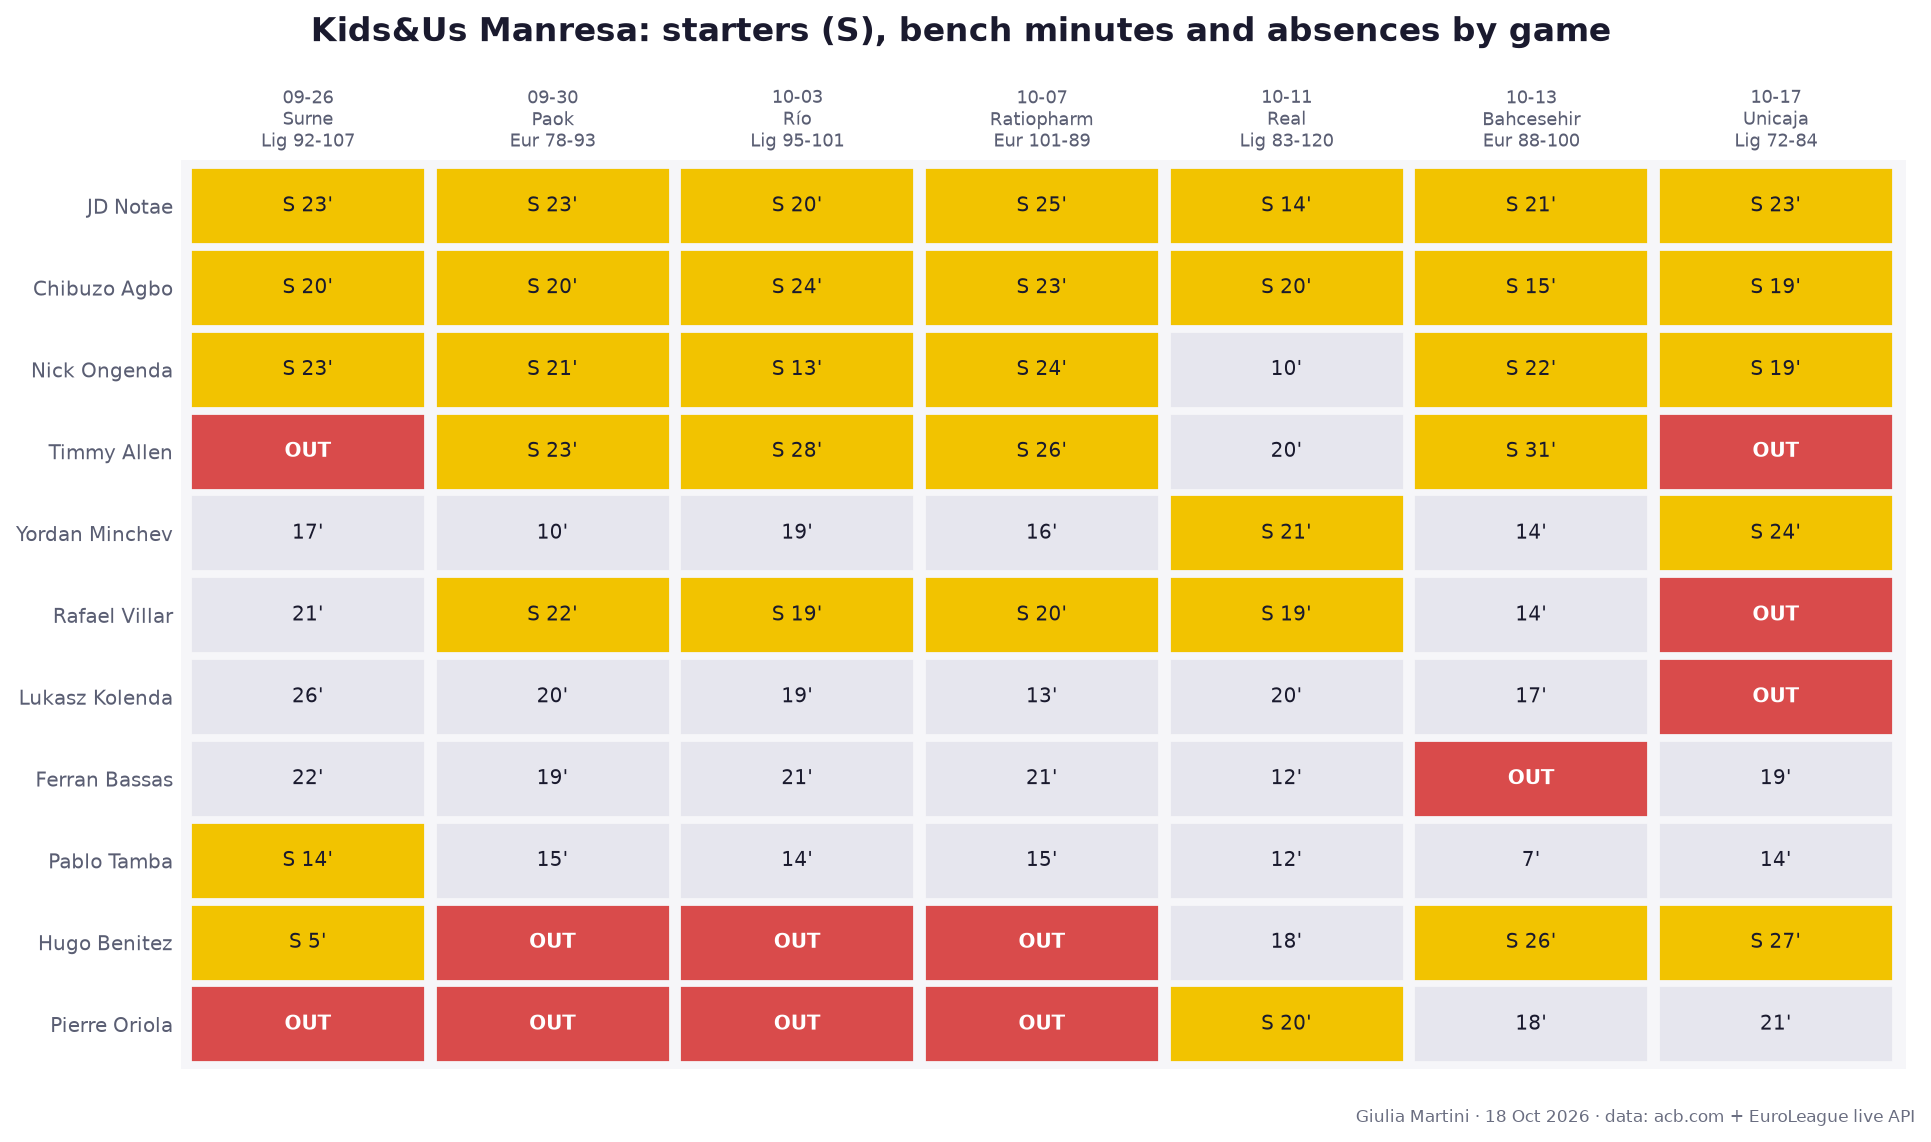
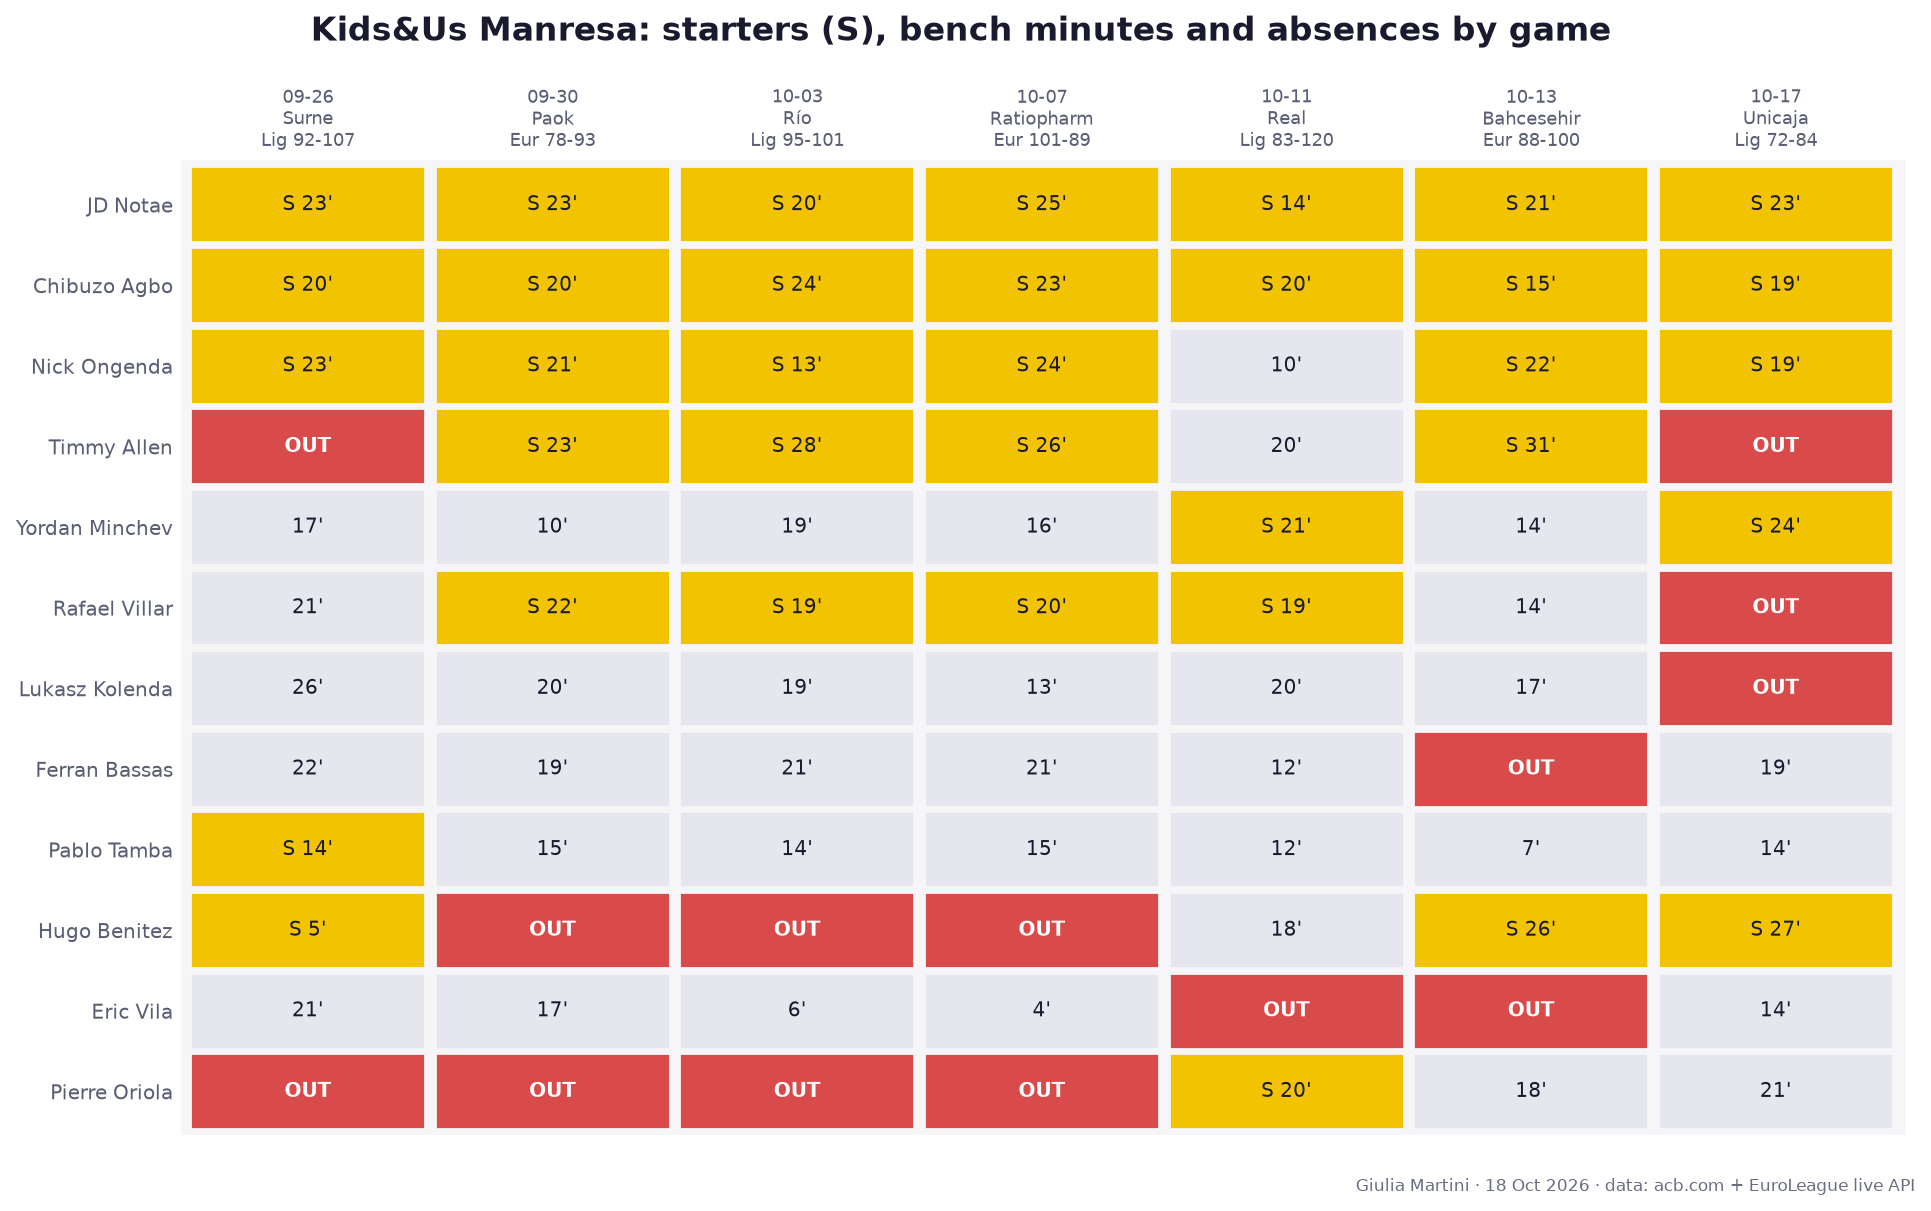
Manresa report: extend rotation table to top 12 by minutes (adds Vila and Oriola)

diff --git a/notebooks/manresa_report.py b/notebooks/manresa_report.py
@@ -24,7 +24,7 @@ from manresa_fetch import player_key
 
 ROOT = Path(__file__).resolve().parent.parent
 DATA = ROOT / "data" / "manresa"
-TOP_N = 10
+TOP_N = 12
 MIN_UNIT_SECS = 180
 ROLE_EN = {"Base": "PG", "Escolta": "SG", "Alero": "SF", "Ala-pívot": "PF", "Pívot": "C"}
 POS_EN = {"Guard": "G", "Forward": "F", "Center": "C"}
@@ -135,8 +135,8 @@ def fig_players(table: pd.DataFrame, out: Path) -> Path:
             cell._loc = "left"
             cell.set_text_props(ha="left")
     tab.auto_set_column_width(range(len(cols)))
-    fig.suptitle("Kids&Us Manresa: top 10 by minutes, Liga Endesa + EuroCup 2026/27", **SUP_KW)
-    path = out / "01_top10_players.png"
+    fig.suptitle(f"Kids&Us Manresa: top {TOP_N} by minutes, Liga Endesa + EuroCup 2026/27", **SUP_KW)
+    path = out / "01_top_players.png"
     save_fig(fig, path)
     plt.close(fig)
     return path
@@ -442,7 +442,7 @@ def extra_sections(starters: pd.DataFrame, assists: pd.DataFrame, matrix: pd.Dat
                    per_game: pd.DataFrame, ts: pd.DataFrame) -> list[str]:
     """README lines for starting fives, assist matrix, shot distances and shot charts."""
     L = ["## Starting fives and absences", "", "![starting fives](00_starting_fives.png)", "",
-         "Gold = starter (S, minutes), grey = bench minutes, red = rotation player (top 10 by minutes) "
+         "Gold = starter (S, minutes), grey = bench minutes, red = rotation player (top 12 by minutes) "
          "not on the game sheet (injury, rest or selection: the reason is not in the data).", "",
          "| Date | Comp | Opponent | H/A | Score | Starters | Out |", "|---|---|---|---|---|---|---|"]
     L += [f"| {r.date} | {r.comp} | {r.opponent} | {r.home} | {r.score} | {r.starters} | "
@@ -467,7 +467,7 @@ def extra_sections(starters: pd.DataFrame, assists: pd.DataFrame, matrix: pd.Dat
                  for n in dist.columns.get_level_values(0).unique()]
         L.append(f"| {label} | " + " | ".join(cells) + " |")
     L += ["", "### Attempts per game (FG%) by player", "", "![per game](05_shots_per_game.png)", "",
-          "Top 10 by minutes; attempts per EuroCup game played, FG% in brackets.", "",
+          "Top 12 by minutes; attempts per EuroCup game played, FG% in brackets.", "",
           "| Player | " + " | ".join(per_game.columns) + " |", "|---|" + "---|" * len(per_game.columns)]
     L += [f"| {name} | " + " | ".join(str(v) for v in row) + " |" for name, row in per_game.iterrows()]
     L += ["", "## True Shooting and PIR", "", "![ts pir](06_ts_pir.png)", "",
@@ -496,7 +496,7 @@ def write_readme(out: Path, title_date: str, games: pd.DataFrame, table: pd.Data
     L += ["", "## Results", "", "| Comp | Opponent | H/A | Score |", "|---|---|---|---|"]
     for r in games.itertuples():
         L.append(f"| {r.comp} | {r.opponent} | {'H' if r.home else 'A'} | {r.man_pts}-{r.opp_pts} |")
-    L += ["", "## Top 10 by total minutes", "", "![top 10](01_top10_players.png)", "",
+    L += ["", "## Top 12 by total minutes", "", "![top players](01_top_players.png)", "",
           "Height in cm (EuroLeague roster), position from ACB role / EuroLeague roster. "
           "PPG split: Liga Endesa / EuroCup.", ""]
     for r in table.itertuples():

diff --git a/docs/analyses/matchup_Kids_Us_Manresa_scouting_before_2026-10-18/README.md b/docs/analyses/matchup_Kids_Us_Manresa_scouting_before_2026-10-18/README.md
@@ -24,9 +24,9 @@
 | EuroCup | Ratiopharm Ulm | H | 101-89 |
 | EuroCup | Bahcesehir College Istanbul | A | 88-100 |
 
-## Top 10 by total minutes
+## Top 12 by total minutes
 
-![top 10](01_top10_players.png)
+![top players](01_top_players.png)
 
 Height in cm (EuroLeague roster), position from ACB role / EuroLeague roster. PPG split: Liga Endesa / EuroCup.
 
@@ -40,6 +40,8 @@ Height in cm (EuroLeague roster), position from ACB role / EuroLeague roster. PP
 - **Ferran Bassas** (PG, 181 cm, 6 GP): 19.0 min, **3.7 pts**, 2.0 reb, 4.5 ast, FG 24% / 3P 16% / FT 78%; PPG 1.8 ACB / 7.5 EC. Main creator.
 - **Pablo Tamba** (SF, 200 cm, 7 GP): 13.1 min, **4.7 pts**, 2.6 reb, 0.6 ast, FG 68% / 3P 33% / FT 42%; PPG 4.5 ACB / 5.0 EC. Role player.
 - **Hugo Benitez** (PG, 192 cm, 4 GP): 19.2 min, **8.2 pts**, 1.5 reb, 4.0 ast, FG 54% / 3P 17% / FT 50%; PPG 7.3 ACB / 11.0 EC. Main creator, weak at the line (50%).
+- **Eric Vila** (PF, 209 cm, 5 GP): 12.2 min, **1.8 pts**, 2.6 reb, 0.6 ast, FG 21% / 3P 0% / FT 75%; PPG 1.7 ACB / 2.0 EC. Role player.
+- **Pierre Oriola** (C, 208 cm, 3 GP): 19.6 min, **12.0 pts**, 6.0 reb, 0.7 ast, FG 50% / 3P 0% / FT 70%; PPG 11.5 ACB / 13.0 EC. Rebounder.
 
 ## Lineups
 
@@ -75,16 +77,16 @@ Five-man units rebuilt from substitutions, both competitions combined; best/wors
 
 ![starting fives](00_starting_fives.png)
 
-Gold = starter (S, minutes), grey = bench minutes, red = rotation player (top 10 by minutes) not on the game sheet (injury, rest or selection: the reason is not in the data).
+Gold = starter (S, minutes), grey = bench minutes, red = rotation player (top 12 by minutes) not on the game sheet (injury, rest or selection: the reason is not in the data).
 
 | Date | Comp | Opponent | H/A | Score | Starters | Out |
 |---|---|---|---|---|---|---|
-| 2026-09-26 | Liga Endesa | Surne Bilbao | A | 92-107 | Agbo / Benitez / Notae / Ongenda / Tamba | **Timmy Allen** |
-| 2026-09-30 | EuroCup | Paok Thessaloniki | A | 78-93 | Agbo / Allen / Notae / Ongenda / Villar | **Hugo Benitez** |
-| 2026-10-03 | Liga Endesa | Río Breogán | H | 95-101 | Agbo / Allen / Notae / Ongenda / Villar | **Hugo Benitez** |
-| 2026-10-07 | EuroCup | Ratiopharm Ulm | H | 101-89 | Agbo / Allen / Notae / Ongenda / Villar | **Hugo Benitez** |
-| 2026-10-11 | Liga Endesa | Real Madrid | A | 83-120 | Agbo / Minchev / Notae / Oriola / Villar | - |
-| 2026-10-13 | EuroCup | Bahcesehir College Istanbul | A | 88-100 | Agbo / Allen / Benitez / Notae / Ongenda | **Ferran Bassas** |
+| 2026-09-26 | Liga Endesa | Surne Bilbao | A | 92-107 | Agbo / Benitez / Notae / Ongenda / Tamba | **Timmy Allen, Pierre Oriola** |
+| 2026-09-30 | EuroCup | Paok Thessaloniki | A | 78-93 | Agbo / Allen / Notae / Ongenda / Villar | **Hugo Benitez, Pierre Oriola** |
+| 2026-10-03 | Liga Endesa | Río Breogán | H | 95-101 | Agbo / Allen / Notae / Ongenda / Villar | **Hugo Benitez, Pierre Oriola** |
+| 2026-10-07 | EuroCup | Ratiopharm Ulm | H | 101-89 | Agbo / Allen / Notae / Ongenda / Villar | **Hugo Benitez, Pierre Oriola** |
+| 2026-10-11 | Liga Endesa | Real Madrid | A | 83-120 | Agbo / Minchev / Notae / Oriola / Villar | **Eric Vila** |
+| 2026-10-13 | EuroCup | Bahcesehir College Istanbul | A | 88-100 | Agbo / Allen / Benitez / Notae / Ongenda | **Ferran Bassas, Eric Vila** |
 | 2026-10-17 | Liga Endesa | Unicaja | H | 72-84 | Agbo / Benitez / Minchev / Notae / Ongenda | **Timmy Allen, Rafael Villar, Lukasz Kolenda** |
 
 5 different starting fives in 7 games; the most used (3 games): Agbo / Allen / Notae / Ongenda / Villar.
@@ -121,7 +123,7 @@ EuroCup games only (3 games, 197 attempts): ACB does not publish shot locations.
 
 ![per game](05_shots_per_game.png)
 
-Top 10 by minutes; attempts per EuroCup game played, FG% in brackets.
+Top 12 by minutes; attempts per EuroCup game played, FG% in brackets.
 
 | Player | GP | At the rim (0-1.5 m) | Close (1.5-3 m) | Mid-range (3-4.5 m) | Long 2 (4.5 m+) | 3-pointers | Total |
 |---|---|---|---|---|---|---|---|
@@ -135,6 +137,8 @@ Top 10 by minutes; attempts per EuroCup game played, FG% in brackets.
 | Ferran Bassas | 2 | - | 0.5 (100%) | - | - | 3.5 (29%) | 4.0 (38%) |
 | Pablo Tamba | 3 | 1.7 (100%) | 0.3 (0%) | - | - | 1.0 (33%) | 3.0 (67%) |
 | Hugo Benitez | 1 | 1.0 (100%) | 2.0 (100%) | 1.0 (100%) | - | 2.0 (50%) | 6.0 (83%) |
+| Eric Vila | 2 | 0.5 (100%) | - | - | - | 1.5 (0%) | 2.0 (25%) |
+| Pierre Oriola | 1 | 2.0 (100%) | 2.0 (50%) | - | - | 1.0 (0%) | 5.0 (60%) |
 | Team | 3 | 20.3 (72%) | 12.3 (41%) | 2.0 (50%) | 3.0 (33%) | 28.0 (32%) | 65.7 (47%) |
 
 ## True Shooting and PIR

diff --git a/reports/matchup_Kids_Us_Manresa_scouting_before_2026-10-18/README.md b/reports/matchup_Kids_Us_Manresa_scouting_before_2026-10-18/README.md
@@ -24,9 +24,9 @@
 | EuroCup | Ratiopharm Ulm | H | 101-89 |
 | EuroCup | Bahcesehir College Istanbul | A | 88-100 |
 
-## Top 10 by total minutes
+## Top 12 by total minutes
 
-![top 10](01_top10_players.png)
+![top players](01_top_players.png)
 
 Height in cm (EuroLeague roster), position from ACB role / EuroLeague roster. PPG split: Liga Endesa / EuroCup.
 
@@ -40,6 +40,8 @@ Height in cm (EuroLeague roster), position from ACB role / EuroLeague roster. PP
 - **Ferran Bassas** (PG, 181 cm, 6 GP): 19.0 min, **3.7 pts**, 2.0 reb, 4.5 ast, FG 24% / 3P 16% / FT 78%; PPG 1.8 ACB / 7.5 EC. Main creator.
 - **Pablo Tamba** (SF, 200 cm, 7 GP): 13.1 min, **4.7 pts**, 2.6 reb, 0.6 ast, FG 68% / 3P 33% / FT 42%; PPG 4.5 ACB / 5.0 EC. Role player.
 - **Hugo Benitez** (PG, 192 cm, 4 GP): 19.2 min, **8.2 pts**, 1.5 reb, 4.0 ast, FG 54% / 3P 17% / FT 50%; PPG 7.3 ACB / 11.0 EC. Main creator, weak at the line (50%).
+- **Eric Vila** (PF, 209 cm, 5 GP): 12.2 min, **1.8 pts**, 2.6 reb, 0.6 ast, FG 21% / 3P 0% / FT 75%; PPG 1.7 ACB / 2.0 EC. Role player.
+- **Pierre Oriola** (C, 208 cm, 3 GP): 19.6 min, **12.0 pts**, 6.0 reb, 0.7 ast, FG 50% / 3P 0% / FT 70%; PPG 11.5 ACB / 13.0 EC. Rebounder.
 
 ## Lineups
 
@@ -75,16 +77,16 @@ Five-man units rebuilt from substitutions, both competitions combined; best/wors
 
 ![starting fives](00_starting_fives.png)
 
-Gold = starter (S, minutes), grey = bench minutes, red = rotation player (top 10 by minutes) not on the game sheet (injury, rest or selection: the reason is not in the data).
+Gold = starter (S, minutes), grey = bench minutes, red = rotation player (top 12 by minutes) not on the game sheet (injury, rest or selection: the reason is not in the data).
 
 | Date | Comp | Opponent | H/A | Score | Starters | Out |
 |---|---|---|---|---|---|---|
-| 2026-09-26 | Liga Endesa | Surne Bilbao | A | 92-107 | Agbo / Benitez / Notae / Ongenda / Tamba | **Timmy Allen** |
-| 2026-09-30 | EuroCup | Paok Thessaloniki | A | 78-93 | Agbo / Allen / Notae / Ongenda / Villar | **Hugo Benitez** |
-| 2026-10-03 | Liga Endesa | Río Breogán | H | 95-101 | Agbo / Allen / Notae / Ongenda / Villar | **Hugo Benitez** |
-| 2026-10-07 | EuroCup | Ratiopharm Ulm | H | 101-89 | Agbo / Allen / Notae / Ongenda / Villar | **Hugo Benitez** |
-| 2026-10-11 | Liga Endesa | Real Madrid | A | 83-120 | Agbo / Minchev / Notae / Oriola / Villar | - |
-| 2026-10-13 | EuroCup | Bahcesehir College Istanbul | A | 88-100 | Agbo / Allen / Benitez / Notae / Ongenda | **Ferran Bassas** |
+| 2026-09-26 | Liga Endesa | Surne Bilbao | A | 92-107 | Agbo / Benitez / Notae / Ongenda / Tamba | **Timmy Allen, Pierre Oriola** |
+| 2026-09-30 | EuroCup | Paok Thessaloniki | A | 78-93 | Agbo / Allen / Notae / Ongenda / Villar | **Hugo Benitez, Pierre Oriola** |
+| 2026-10-03 | Liga Endesa | Río Breogán | H | 95-101 | Agbo / Allen / Notae / Ongenda / Villar | **Hugo Benitez, Pierre Oriola** |
+| 2026-10-07 | EuroCup | Ratiopharm Ulm | H | 101-89 | Agbo / Allen / Notae / Ongenda / Villar | **Hugo Benitez, Pierre Oriola** |
+| 2026-10-11 | Liga Endesa | Real Madrid | A | 83-120 | Agbo / Minchev / Notae / Oriola / Villar | **Eric Vila** |
+| 2026-10-13 | EuroCup | Bahcesehir College Istanbul | A | 88-100 | Agbo / Allen / Benitez / Notae / Ongenda | **Ferran Bassas, Eric Vila** |
 | 2026-10-17 | Liga Endesa | Unicaja | H | 72-84 | Agbo / Benitez / Minchev / Notae / Ongenda | **Timmy Allen, Rafael Villar, Lukasz Kolenda** |
 
 5 different starting fives in 7 games; the most used (3 games): Agbo / Allen / Notae / Ongenda / Villar.
@@ -121,7 +123,7 @@ EuroCup games only (3 games, 197 attempts): ACB does not publish shot locations.
 
 ![per game](05_shots_per_game.png)
 
-Top 10 by minutes; attempts per EuroCup game played, FG% in brackets.
+Top 12 by minutes; attempts per EuroCup game played, FG% in brackets.
 
 | Player | GP | At the rim (0-1.5 m) | Close (1.5-3 m) | Mid-range (3-4.5 m) | Long 2 (4.5 m+) | 3-pointers | Total |
 |---|---|---|---|---|---|---|---|
@@ -135,6 +137,8 @@ Top 10 by minutes; attempts per EuroCup game played, FG% in brackets.
 | Ferran Bassas | 2 | - | 0.5 (100%) | - | - | 3.5 (29%) | 4.0 (38%) |
 | Pablo Tamba | 3 | 1.7 (100%) | 0.3 (0%) | - | - | 1.0 (33%) | 3.0 (67%) |
 | Hugo Benitez | 1 | 1.0 (100%) | 2.0 (100%) | 1.0 (100%) | - | 2.0 (50%) | 6.0 (83%) |
+| Eric Vila | 2 | 0.5 (100%) | - | - | - | 1.5 (0%) | 2.0 (25%) |
+| Pierre Oriola | 1 | 2.0 (100%) | 2.0 (50%) | - | - | 1.0 (0%) | 5.0 (60%) |
 | Team | 3 | 20.3 (72%) | 12.3 (41%) | 2.0 (50%) | 3.0 (33%) | 28.0 (32%) | 65.7 (47%) |
 
 ## True Shooting and PIR
